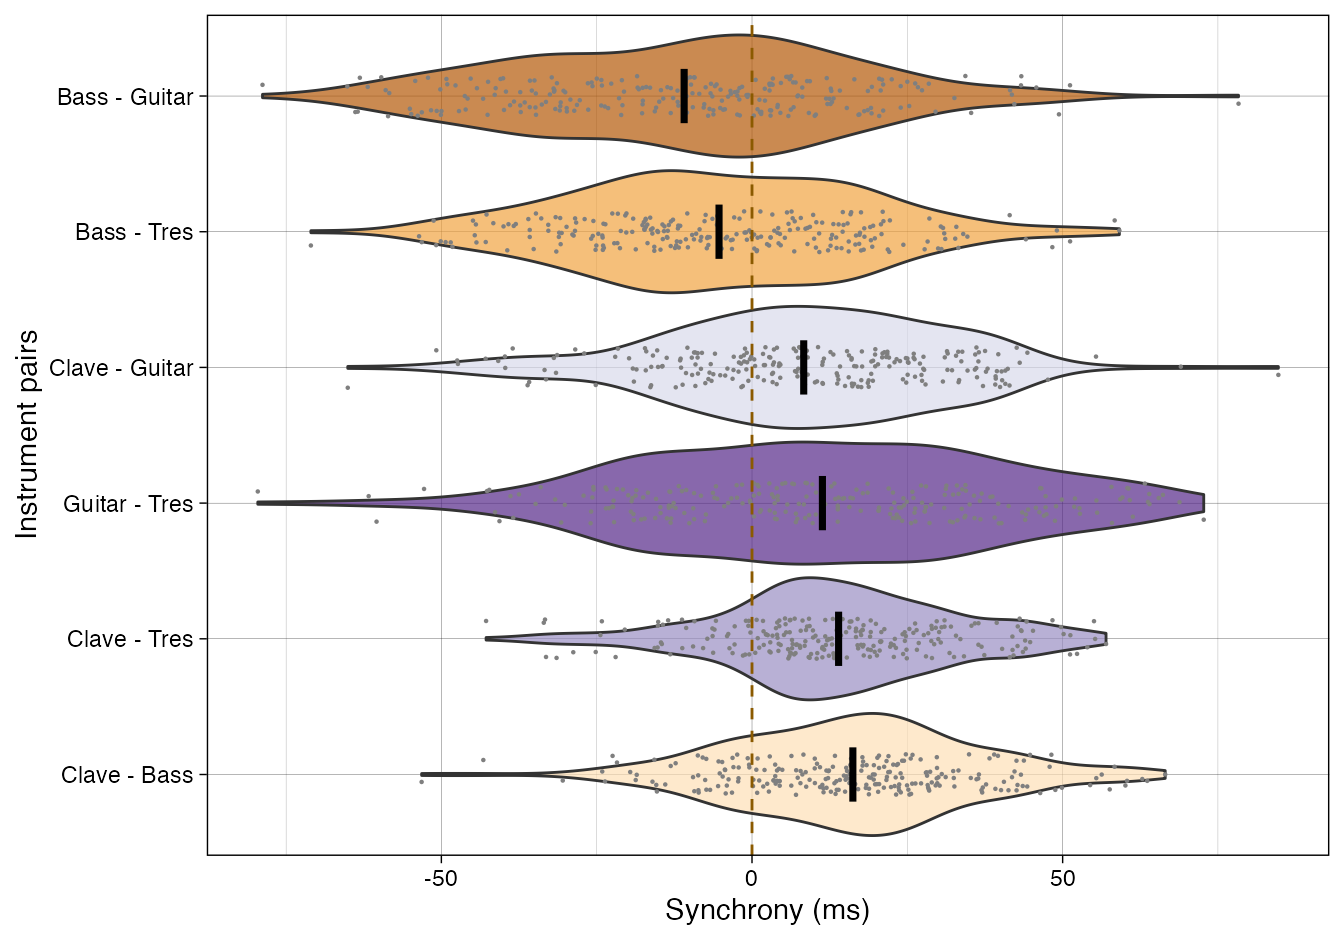
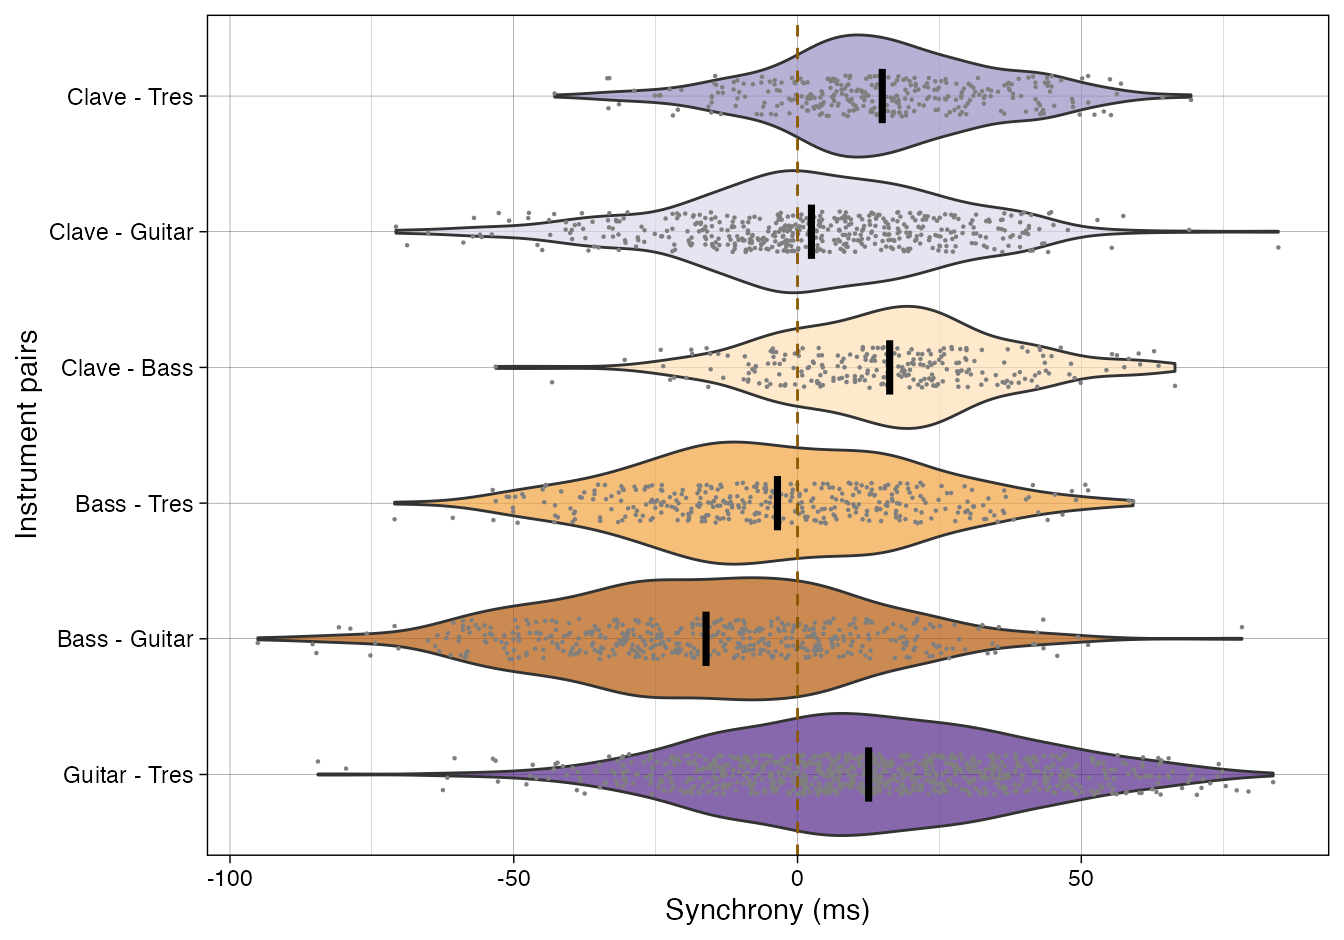
fixed combining different n of pairs.

diff --git a/docs/reference/sync_joint_onsets.html b/docs/reference/sync_joint_onsets.html
@@ -1,0 +1,104 @@
+<!DOCTYPE html>
+<!-- Generated by pkgdown: do not edit by hand --><html lang="en"><head><meta http-equiv="Content-Type" content="text/html; charset=UTF-8"><meta charset="utf-8"><meta http-equiv="X-UA-Compatible" content="IE=edge"><meta name="viewport" content="width=device-width, initial-scale=1, shrink-to-fit=no"><meta name="description" content="Calculate the number of joint onsets for two instruments"><title>Determine the number of joint onsets for two instruments — sync_joint_onsets • onsetsync</title><!-- favicons --><link rel="icon" type="image/png" sizes="16x16" href="../favicon-16x16.png"><link rel="icon" type="image/png" sizes="32x32" href="../favicon-32x32.png"><link rel="apple-touch-icon" type="image/png" sizes="180x180" href="../apple-touch-icon.png"><link rel="apple-touch-icon" type="image/png" sizes="120x120" href="../apple-touch-icon-120x120.png"><link rel="apple-touch-icon" type="image/png" sizes="76x76" href="../apple-touch-icon-76x76.png"><link rel="apple-touch-icon" type="image/png" sizes="60x60" href="../apple-touch-icon-60x60.png"><script src="../deps/jquery-3.6.0/jquery-3.6.0.min.js"></script><meta name="viewport" content="width=device-width, initial-scale=1, shrink-to-fit=no"><link href="../deps/bootstrap-5.1.3/bootstrap.min.css" rel="stylesheet"><script src="../deps/bootstrap-5.1.3/bootstrap.bundle.min.js"></script><!-- Font Awesome icons --><link rel="stylesheet" href="https://cdnjs.cloudflare.com/ajax/libs/font-awesome/5.12.1/css/all.min.css" integrity="sha256-mmgLkCYLUQbXn0B1SRqzHar6dCnv9oZFPEC1g1cwlkk=" crossorigin="anonymous"><link rel="stylesheet" href="https://cdnjs.cloudflare.com/ajax/libs/font-awesome/5.12.1/css/v4-shims.min.css" integrity="sha256-wZjR52fzng1pJHwx4aV2AO3yyTOXrcDW7jBpJtTwVxw=" crossorigin="anonymous"><!-- bootstrap-toc --><script src="https://cdn.rawgit.com/afeld/bootstrap-toc/v1.0.1/dist/bootstrap-toc.min.js"></script><!-- headroom.js --><script src="https://cdnjs.cloudflare.com/ajax/libs/headroom/0.11.0/headroom.min.js" integrity="sha256-AsUX4SJE1+yuDu5+mAVzJbuYNPHj/WroHuZ8Ir/CkE0=" crossorigin="anonymous"></script><script src="https://cdnjs.cloudflare.com/ajax/libs/headroom/0.11.0/jQuery.headroom.min.js" integrity="sha256-ZX/yNShbjqsohH1k95liqY9Gd8uOiE1S4vZc+9KQ1K4=" crossorigin="anonymous"></script><!-- clipboard.js --><script src="https://cdnjs.cloudflare.com/ajax/libs/clipboard.js/2.0.6/clipboard.min.js" integrity="sha256-inc5kl9MA1hkeYUt+EC3BhlIgyp/2jDIyBLS6k3UxPI=" crossorigin="anonymous"></script><!-- search --><script src="https://cdnjs.cloudflare.com/ajax/libs/fuse.js/6.4.6/fuse.js" integrity="sha512-zv6Ywkjyktsohkbp9bb45V6tEMoWhzFzXis+LrMehmJZZSys19Yxf1dopHx7WzIKxr5tK2dVcYmaCk2uqdjF4A==" crossorigin="anonymous"></script><script src="https://cdnjs.cloudflare.com/ajax/libs/autocomplete.js/0.38.0/autocomplete.jquery.min.js" integrity="sha512-GU9ayf+66Xx2TmpxqJpliWbT5PiGYxpaG8rfnBEk1LL8l1KGkRShhngwdXK1UgqhAzWpZHSiYPc09/NwDQIGyg==" crossorigin="anonymous"></script><script src="https://cdnjs.cloudflare.com/ajax/libs/mark.js/8.11.1/mark.min.js" integrity="sha512-5CYOlHXGh6QpOFA/TeTylKLWfB3ftPsde7AnmhuitiTX4K5SqCLBeKro6sPS8ilsz1Q4NRx3v8Ko2IBiszzdww==" crossorigin="anonymous"></script><!-- pkgdown --><script src="../pkgdown.js"></script><meta property="og:title" content="Determine the number of joint onsets for two instruments — sync_joint_onsets"><meta property="og:description" content="Calculate the number of joint onsets for two instruments"><meta property="og:image" content="https://github.com/tuomaseerola/onsetsync/logo.png"><!-- mathjax --><script src="https://cdnjs.cloudflare.com/ajax/libs/mathjax/2.7.5/MathJax.js" integrity="sha256-nvJJv9wWKEm88qvoQl9ekL2J+k/RWIsaSScxxlsrv8k=" crossorigin="anonymous"></script><script src="https://cdnjs.cloudflare.com/ajax/libs/mathjax/2.7.5/config/TeX-AMS-MML_HTMLorMML.js" integrity="sha256-84DKXVJXs0/F8OTMzX4UR909+jtl4G7SPypPavF+GfA=" crossorigin="anonymous"></script><!--[if lt IE 9]>
+<script src="https://oss.maxcdn.com/html5shiv/3.7.3/html5shiv.min.js"></script>
+<script src="https://oss.maxcdn.com/respond/1.4.2/respond.min.js"></script>
+<![endif]--></head><body>
+    <a href="#main" class="visually-hidden-focusable">Skip to contents</a>
+    
+
+    <nav class="navbar fixed-top navbar-light navbar-expand-lg bg-light"><div class="container">
+    
+    <a class="navbar-brand me-2" href="../index.html">onsetsync</a>
+
+    <small class="nav-text text-muted me-auto" data-bs-toggle="tooltip" data-bs-placement="bottom" title="">0.4.7</small>
+
+    
+    <button class="navbar-toggler" type="button" data-bs-toggle="collapse" data-bs-target="#navbar" aria-controls="navbar" aria-expanded="false" aria-label="Toggle navigation">
+      <span class="navbar-toggler-icon"></span>
+    </button>
+
+    <div id="navbar" class="collapse navbar-collapse ms-3">
+      <ul class="navbar-nav me-auto"><li class="nav-item">
+  <a class="nav-link" href="../articles/onsetsync.html">Get started</a>
+</li>
+<li class="active nav-item">
+  <a class="nav-link" href="../reference/index.html">Reference</a>
+</li>
+<li class="nav-item dropdown">
+  <a href="#" class="nav-link dropdown-toggle" data-bs-toggle="dropdown" role="button" aria-expanded="false" aria-haspopup="true" id="dropdown-articles">Articles</a>
+  <div class="dropdown-menu" aria-labelledby="dropdown-articles">
+    <a class="dropdown-item" href="../articles/adding_annotations.html">Adding Annotations</a>
+  </div>
+</li>
+<li class="nav-item">
+  <a class="nav-link" href="../news/index.html">Changelog</a>
+</li>
+      </ul><form class="form-inline my-2 my-lg-0" role="search">
+        <input type="search" class="form-control me-sm-2" aria-label="Toggle navigation" name="search-input" data-search-index="../search.json" id="search-input" placeholder="Search for" autocomplete="off"></form>
+
+      <ul class="navbar-nav"></ul></div>
+
+    
+  </div>
+</nav><div class="container template-reference-topic">
+<div class="row">
+  <main id="main" class="col-md-9"><div class="page-header">
+      <img src="../logo.png" class="logo" alt=""><h1>Determine the number of joint onsets for two instruments</h1>
+      
+      <div class="d-none name"><code>sync_joint_onsets.Rd</code></div>
+    </div>
+
+    <div class="ref-description section level2">
+    <p>Calculate the number of joint onsets for two instruments</p>
+    </div>
+
+    <div class="section level2">
+    <h2 id="ref-usage">Usage<a class="anchor" aria-label="anchor" href="#ref-usage"></a></h2>
+    <div class="sourceCode"><pre class="sourceCode r"><code><span><span class="fu">sync_joint_onsets</span><span class="op">(</span>df <span class="op">=</span> <span class="cn">NULL</span>, instr1 <span class="op">=</span> <span class="cn">NULL</span>, instr2 <span class="op">=</span> <span class="cn">NULL</span><span class="op">)</span></span></code></pre></div>
+    </div>
+
+    <div class="section level2">
+    <h2 id="arguments">Arguments<a class="anchor" aria-label="anchor" href="#arguments"></a></h2>
+    <dl><dt>df</dt>
+<dd><p>data frame to be processed</p></dd>
+
+
+<dt>instr1</dt>
+<dd><p>Instrument 1 name to be processed</p></dd>
+
+
+<dt>instr2</dt>
+<dd><p>Instrument 2 name to be processed</p></dd>
+
+</dl></div>
+    <div class="section level2">
+    <h2 id="value">Value<a class="anchor" aria-label="anchor" href="#value"></a></h2>
+    
+
+<p>List containing asynchronies and beat structures</p>
+    </div>
+    <div class="section level2">
+    <h2 id="see-also">See also<a class="anchor" aria-label="anchor" href="#see-also"></a></h2>
+    <div class="dont-index"><p><code><a href="sync_execute_pairs.html">sync_execute_pairs</a></code></p></div>
+    </div>
+
+  </main><aside class="col-md-3"><nav id="toc"><h2>On this page</h2>
+    </nav></aside></div>
+
+
+    <footer><div class="pkgdown-footer-left">
+  <p></p><p>Developed by Tuomas Eerola.</p>
+</div>
+
+<div class="pkgdown-footer-right">
+  <p></p><p>Site built with <a href="https://pkgdown.r-lib.org/" class="external-link">pkgdown</a> 2.0.6.</p>
+</div>
+
+    </footer></div>
+
+  
+
+  
+
+  </body></html>
+

diff --git a/docs/reference/index.html b/docs/reference/index.html
@@ -142,6 +142,11 @@
         <dd>Calculate asynchronies across all pairs of instruments</dd>
       </dl><dl><dt>
           
+          <code><a href="sync_joint_onsets.html">sync_joint_onsets()</a></code> 
+        </dt>
+        <dd>Determine the number of joint onsets for two instruments</dd>
+      </dl><dl><dt>
+          
           <code><a href="sync_sample_paired.html">sync_sample_paired()</a></code> 
         </dt>
         <dd>Take equal number of samples from two instruments</dd>

diff --git a/NEWS.md b/NEWS.md
@@ -5,6 +5,7 @@
 * all input parameters to lowercase letters and coordinated them across functions (`n` = number of samples, `bootn` = number of bootstraps, `beat` and not `beats`, etc.)
 * default option to set sampling 0 and bootstrapping to NULL in `sync_sample_paired` and related functions. 
 * removed warnings from missing observations from plotting section of `periodicity`
+* Allow sampling to cope with different N between instrument pairs
 
 # onsetsync 0.4.6
 
